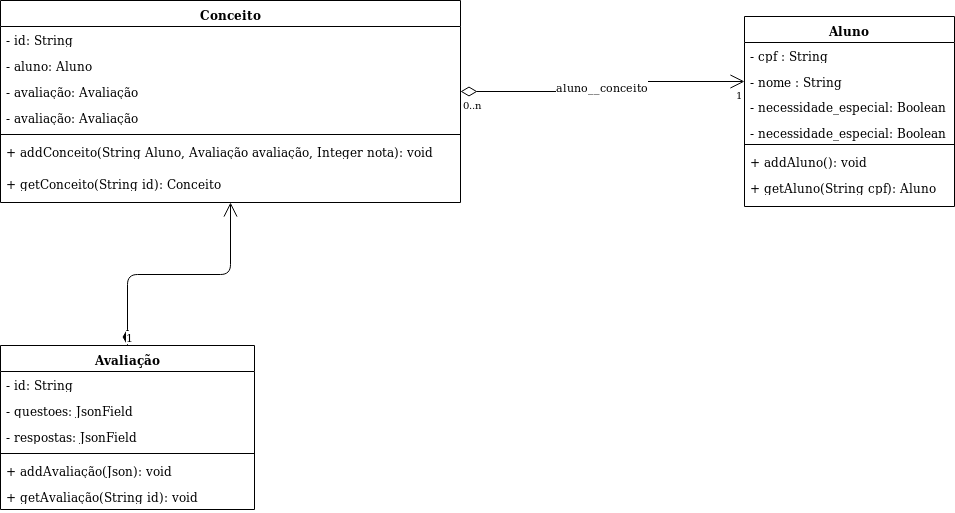
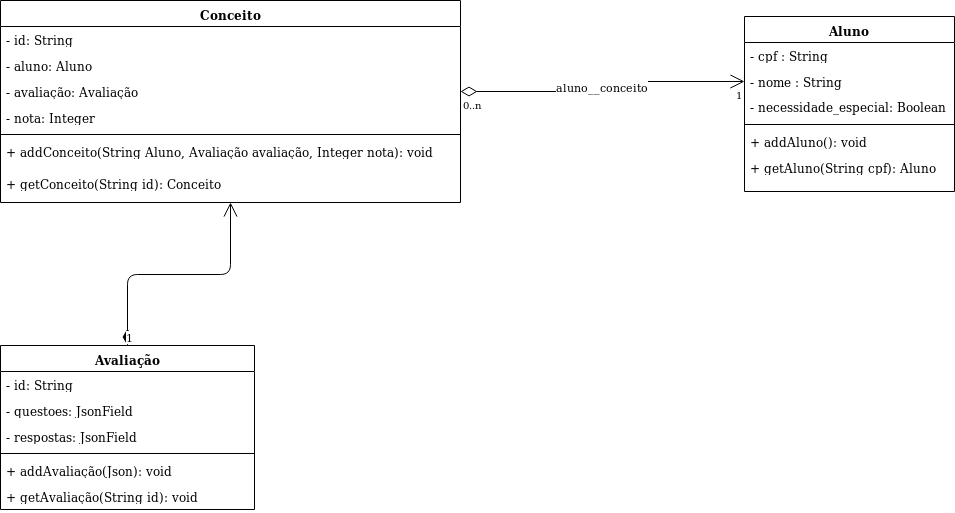
-- iniciando classes -- criando setters e getters

Changed region(s): [[0.7895, 0.2495, 1.0, 0.4055], [0.0, 0.2183, 0.1518, 0.2495]]

diff --git a/programacaooo/aep1/src/main/java/aep1/Conceito.java b/programacaooo/aep1/src/main/java/aep1/Conceito.java
@@ -1,4 +1,34 @@
 package aep1;
 
 public class Conceito {
+    private String id;
+    private Aluno aluno;
+    private Avaliação avaliação;
+    private Integer nota;
+
+    public Conceito(Aluno aluno, Avaliação avaliação, Integer nota) {
+        this.aluno = aluno;
+        this.avaliação = avaliação;
+        this.nota = nota;
+    }
+
+    public String getId() {
+        return id;
+    }
+
+    public Aluno getAluno() {
+        return aluno;
+    }
+
+    public Avaliação getAvaliação() {
+        return avaliação;
+    }
+
+    public Integer getNota() {
+        return nota;
+    }
+
+    public void setNota(Integer nota) {
+        this.nota = nota;
+    }
 }

diff --git a/programacaooo/aep1/src/main/java/aep1/Aluno.java b/programacaooo/aep1/src/main/java/aep1/Aluno.java
@@ -1,4 +1,28 @@
 package aep1;
 
 public class Aluno {
+    private final String cpf;
+    private final String nome;
+    private boolean necessidade_especial;
+
+    public Aluno(String cpf, String nome) {
+        this.cpf = cpf;
+        this.nome = nome;
+    }
+
+    public String getCpf() {
+        return cpf;
+    }
+
+    public String getNome() {
+        return nome;
+    }
+
+    public boolean isNecessidade_especial() {
+        return necessidade_especial;
+    }
+
+    public void setNecessidade_especial(boolean necessidade_especial) {
+        this.necessidade_especial = necessidade_especial;
+    }
 }

diff --git a/programacaooo/aep1/src/main/java/aep1/Avaliação.java b/programacaooo/aep1/src/main/java/aep1/Avaliação.java
@@ -1,4 +1,25 @@
 package aep1;
 
 public class Avaliação {
+
+    public Avaliação(String questoes, String respostas) {
+        this.questoes = questoes;
+        this.respostas = respostas;
+    }
+
+    private String id;
+    private String questoes;
+    private String respostas;
+
+    public String getId() {
+        return id;
+    }
+
+    public String getQuestoes() {
+        return questoes;
+    }
+
+    public String getRespostas() {
+        return respostas;
+    }
 }
